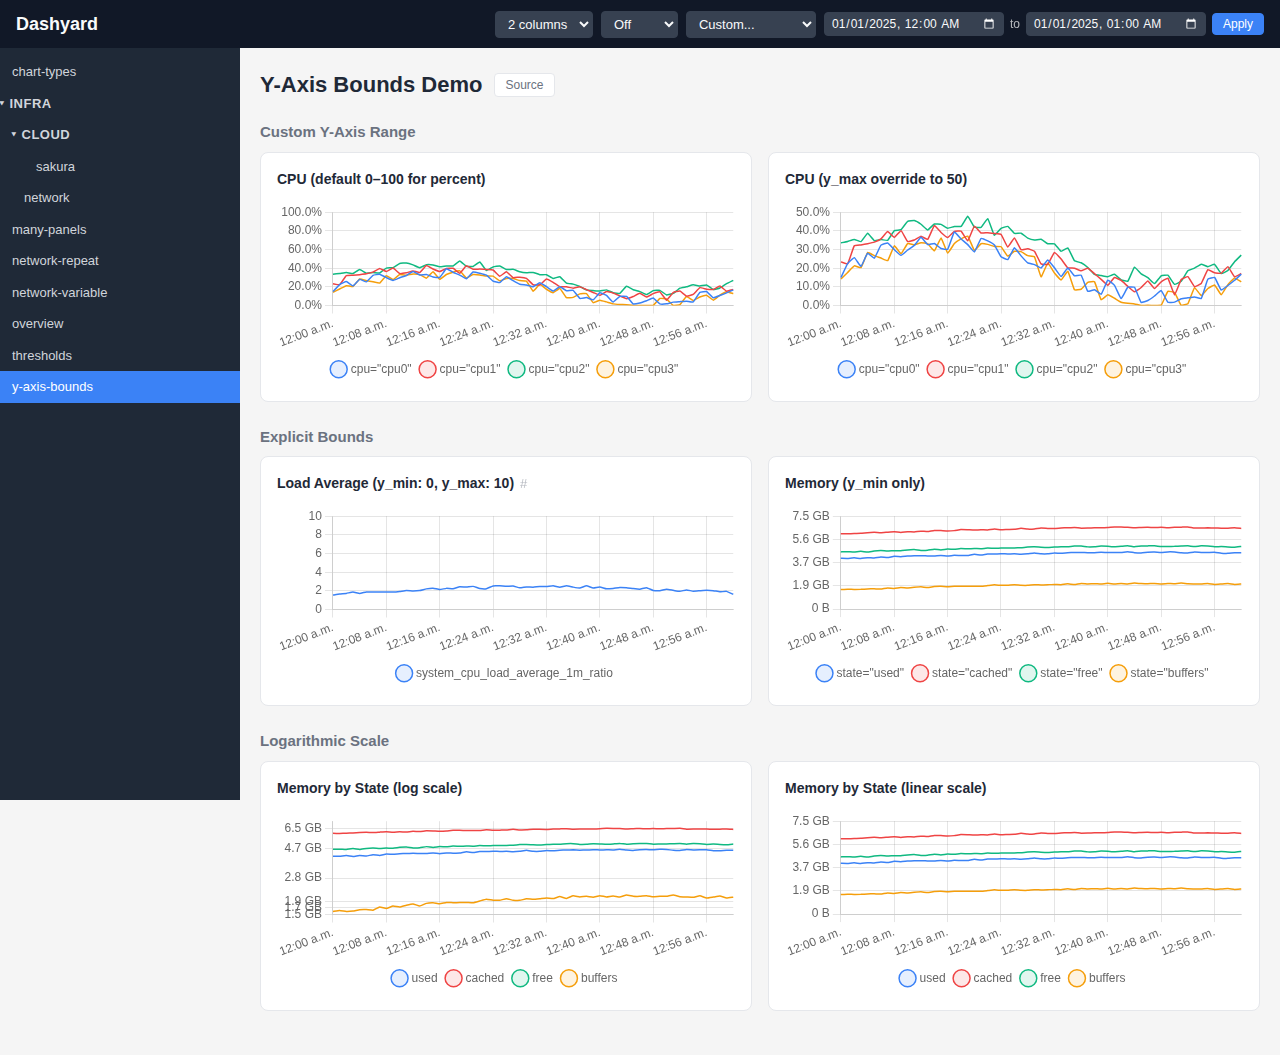
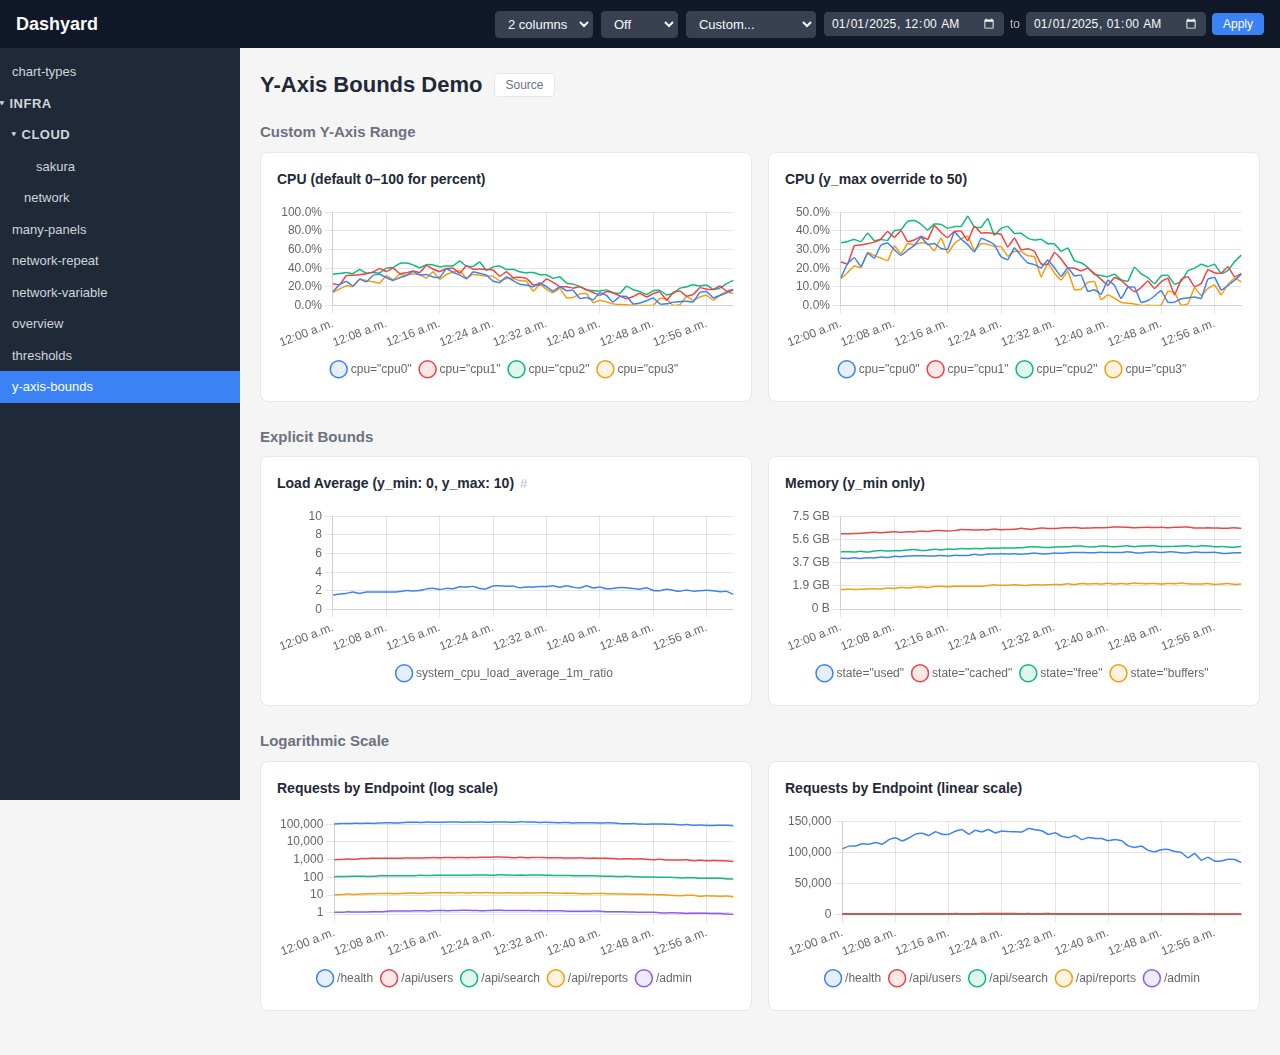
Improve log-scale demo with multi-order-of-magnitude data
Add demo_requests_per_second metric to dummyprom with 5 endpoints
spanning values from 1 to 100k req/s. This makes the log vs linear
difference visually striking: log scale shows all endpoints clearly,
while linear scale squishes everything except /health to the bottom.

Changed region(s): [[0.2188, 0.728, 0.5938, 0.9403], [0.625, 0.728, 0.9688, 0.9403]]

diff --git a/cmd/dummyprom/main.go b/cmd/dummyprom/main.go
@@ -109,6 +109,8 @@ func generateData(query string, start, end, step float64) []promResult {
 		return generateDiskIO(start, end, step, "read")
 	case strings.Contains(query, "disk_io") && strings.Contains(query, "write"):
 		return generateDiskIO(start, end, step, "write")
+	case strings.Contains(query, "demo_requests_per_second"):
+		return generateDemoRequestsPerSecond(start, end, step)
 	default:
 		return generateGeneric(query, start, end, step)
 	}
@@ -237,6 +239,42 @@ func generateDiskIO(start, end, step float64, direction string) []promResult {
 	}
 }
 
+func generateDemoRequestsPerSecond(start, end, step float64) []promResult {
+	// Endpoints with request rates spanning 5 orders of magnitude.
+	// This makes a clear visual difference between linear and log scale:
+	// linear squishes everything except /health to the bottom;
+	// log scale shows all endpoints distinctly.
+	type endpoint struct {
+		path string
+		base float64 // requests per second
+		seed uint64
+	}
+	endpoints := []endpoint{
+		{"/health", 100000, 600},
+		{"/api/users", 1000, 601},
+		{"/api/search", 100, 602},
+		{"/api/reports", 10, 603},
+		{"/admin", 1, 604},
+	}
+	var results []promResult
+	for _, ep := range endpoints {
+		base := ep.base
+		seed := ep.seed
+		values := generateTimeSeries(start, end, step, func(t float64) float64 {
+			// ±30% periodic variation + ±10% noise
+			return math.Max(0.1, base+base*0.3*math.Sin(t/900)+base*0.1*noise(t, seed))
+		})
+		results = append(results, promResult{
+			Metric: map[string]string{
+				"__name__": "demo_requests_per_second",
+				"endpoint": ep.path,
+			},
+			Values: values,
+		})
+	}
+	return results
+}
+
 func generateGeneric(query string, start, end, step float64) []promResult {
 	values := generateTimeSeries(start, end, step, func(t float64) float64 {
 		return math.Max(0, 50+30*math.Sin(t/600)+noise(t, 500)*10)
@@ -271,6 +309,7 @@ var labelRegistry = map[string]map[string][]string{
 	"system_memory_usage_bytes":         {"state": {"used", "cached", "free", "buffers"}},
 	"system_network_io_bytes_total":     {"device": {"eth0", "eth1"}, "direction": {"receive", "transmit"}},
 	"system_disk_io_bytes_total":        {"device": {"sda"}, "direction": {"read", "write"}},
+	"demo_requests_per_second":          {"endpoint": {"/health", "/api/users", "/api/search", "/api/reports", "/admin"}},
 }
 
 type labelValuesResponse struct {
@@ -353,6 +392,7 @@ var metadataRegistry = map[string]struct {
 	"system_memory_usage_bytes":       {"gauge", "Memory usage in bytes by state."},
 	"system_network_io_bytes_total":   {"counter", "Total network I/O bytes by device and direction."},
 	"system_disk_io_bytes_total":      {"counter", "Total disk I/O bytes by device and direction."},
+	"demo_requests_per_second":        {"gauge", "Request rate per endpoint (spans multiple orders of magnitude)."},
 }
 
 func handleMetadata(w http.ResponseWriter, r *http.Request) {
